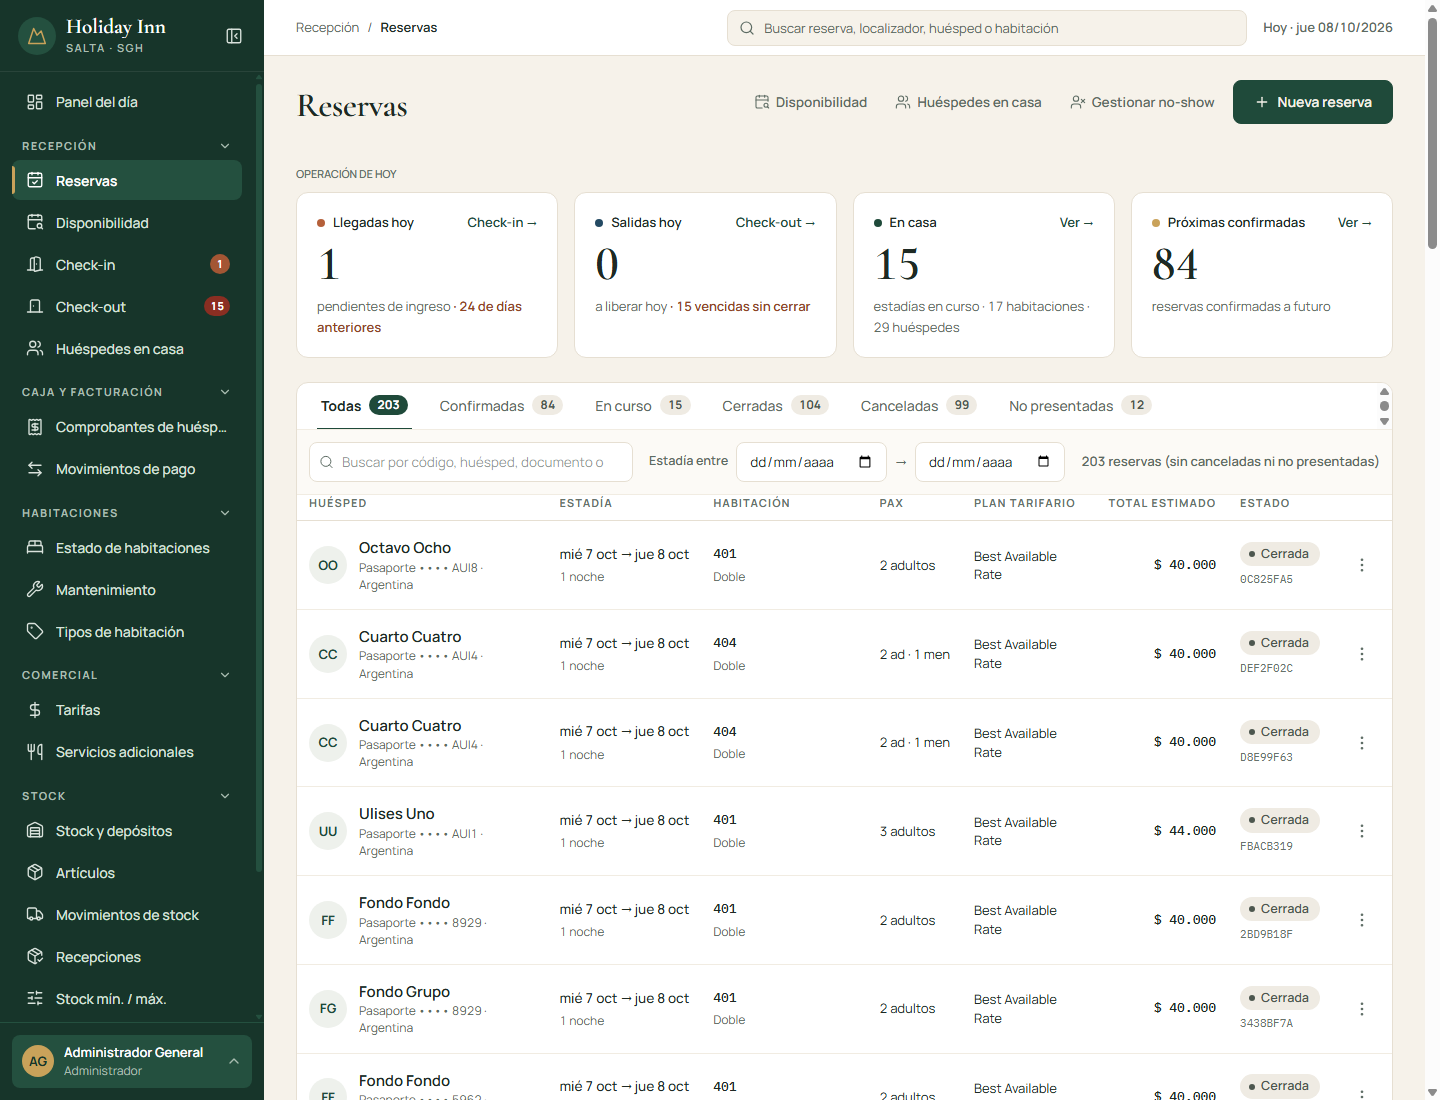
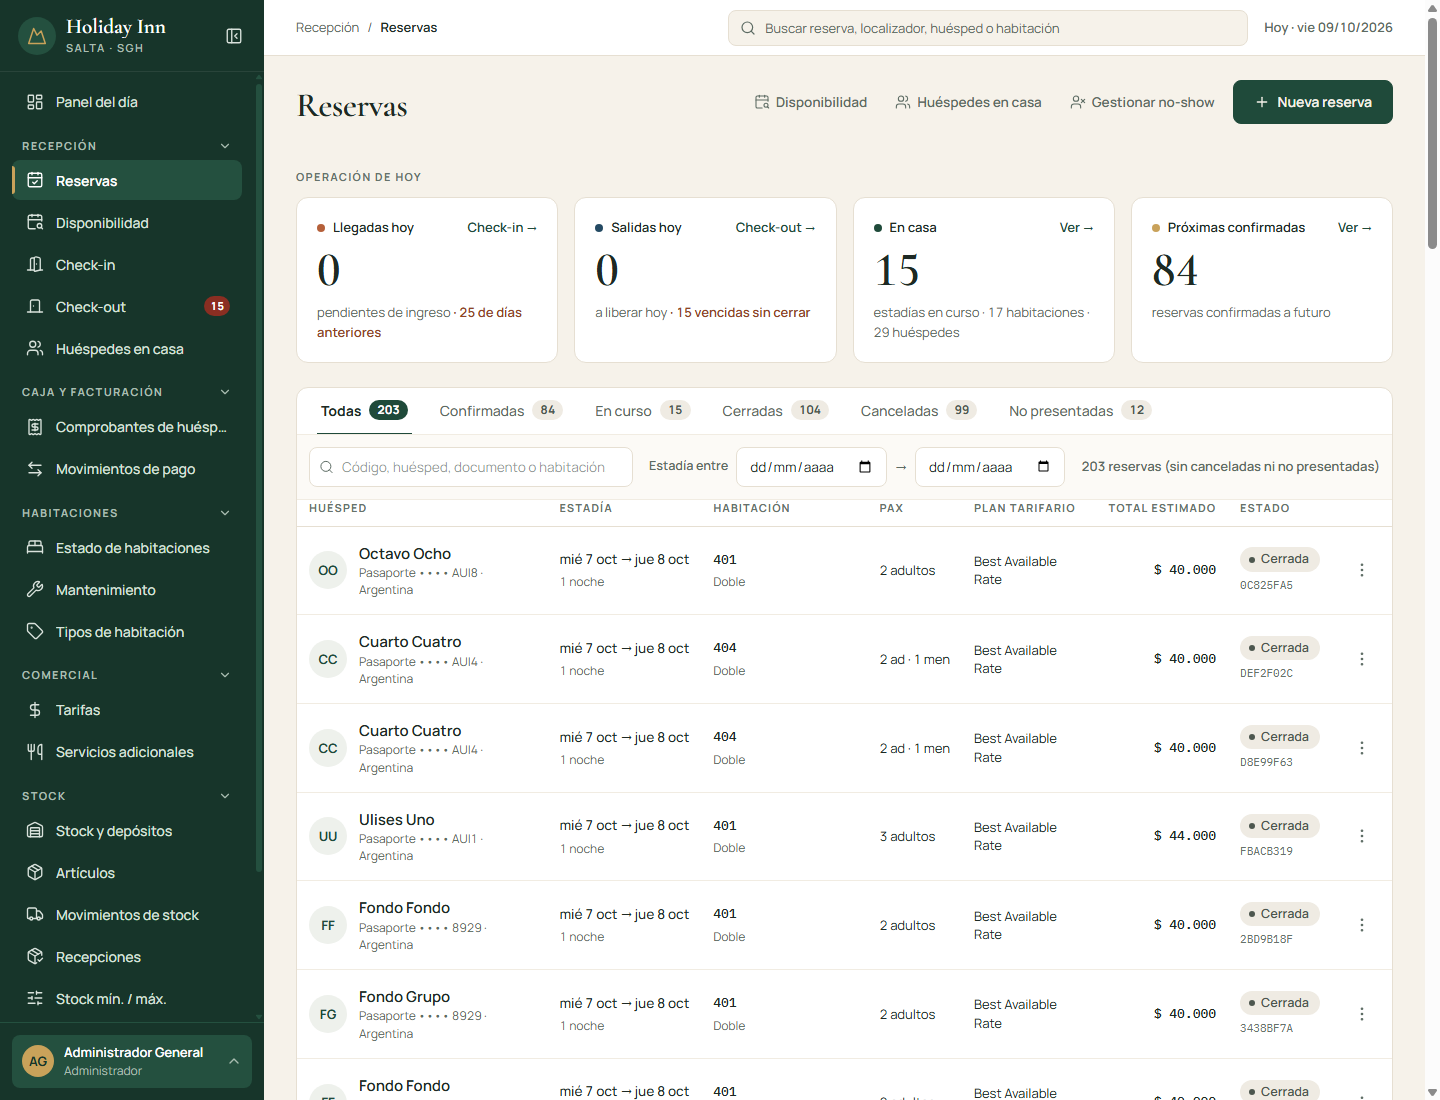
feat(ui): MenuAcciones grande opt-in, capturas de las pantallas afectadas y descripcion del PR

diff --git a/frontend/src/componentes/MenuAcciones.jsx b/frontend/src/componentes/MenuAcciones.jsx
@@ -12,8 +12,9 @@ import { MoreVertical } from "lucide-react";
 // Cada acción es { label, onClick, disabled?, variante?, separador? }: `separador` pinta una línea
 // antes de esa acción. `etiqueta` es el nombre accesible del botón (por defecto "Más acciones"; en
 // una tabla conviene decir de quién, p. ej. "Acciones de Ana Pérez"). El menú se abre hacia arriba;
-// si arriba no hay lugar, se abre hacia abajo para no quedar cortado.
-export function MenuAcciones({ acciones, etiqueta = "Más acciones" }) {
+// si arriba no hay lugar, se abre hacia abajo para no quedar cortado. `grande` (opt-in, default false) lleva el botón
+// a 36 px, el tamaño de los listados rediseñados (Reservas); sin él queda en 28 px como siempre.
+export function MenuAcciones({ acciones, etiqueta = "Más acciones", grande = false }) {
   const [abierto, setAbierto] = useState(false);
   const [posicion, setPosicion] = useState(null);
   const contenedorRef = useRef(null);
@@ -59,9 +60,9 @@ export function MenuAcciones({ acciones, etiqueta = "Más acciones" }) {
           setAbierto((v) => !v);
         }}
         aria-label={etiqueta}
-        className="flex h-9 w-9 flex-none cursor-pointer items-center justify-center rounded-md text-piedra transition-colors hover:bg-hueso hover:text-tinta"
+        className={`flex ${grande ? "h-9 w-9" : "h-7 w-7"} flex-none cursor-pointer items-center justify-center rounded-md text-piedra transition-colors hover:bg-hueso hover:text-tinta`}
       >
-        <MoreVertical size={18} strokeWidth={1.6} />
+        <MoreVertical size={grande ? 18 : 16} strokeWidth={1.6} />
       </button>
       {abierto && posicion && createPortal(
         <div

diff --git a/frontend/src/modulos/reservas/ReservasPage.jsx b/frontend/src/modulos/reservas/ReservasPage.jsx
@@ -428,7 +428,7 @@ export function ReservasPage() {
                       </td>
                       <td className="px-3 py-4 text-right">
                         <div className="flex justify-end">
-                          <MenuAcciones acciones={acciones} etiqueta={`Acciones de la reserva ${reserva.codigoConfirmacion}`} />
+                          <MenuAcciones grande acciones={acciones} etiqueta={`Acciones de la reserva ${reserva.codigoConfirmacion}`} />
                         </div>
                       </td>
                     </tr>

diff --git a/docs/PR_REDISENO_RESERVAS.md b/docs/PR_REDISENO_RESERVAS.md
@@ -1,0 +1,70 @@
+# Rediseño visual del listado de Reservas (`/reservas`) + genéricos de listado
+
+Continuación de la etapa 1 de HU-117. Es un cambio visual: **no hay historias nuevas, ni migraciones, ni cambios en `schema.prisma`**.
+Único cambio de backend: `GET /reservas?estado=` acepta varios estados separados por coma (soporte técnico de la vista).
+
+Capturas: [`docs/capturas-rediseno-reservas/`](capturas-rediseno-reservas/) (Reservas a 1440 y 390 px) y
+[`otras-pantallas/`](capturas-rediseno-reservas/otras-pantallas/) (cada pantalla afectada por los genéricos).
+
+## Qué cambia
+
+### Reservas
+- Encabezado con enlaces discretos (Disponibilidad, Huéspedes en casa, Gestionar no-show si `gestionarReservas`) y "Nueva reserva".
+- "OPERACIÓN DE HOY": 4 tarjetas (Llegadas hoy, Salidas hoy, En casa, Próximas confirmadas) sin endpoints nuevos. Salen del mismo hook que los badges del menú; si una llamada falla, la tarjeta muestra "—".
+- Pestañas por estado con contador (`?estado=`), banda de filtros ("Estadía entre … → …", Limpiar filtros, "N reservas"), tabla y paginación "Mostrando 1–50 de N".
+- **"Todas" = Confirmada + En curso + Cerrada**; con texto de búsqueda incluye todos los estados (para hallar una cancelada por código o documento; también aplica a la búsqueda del Topbar).
+- Tabla: Huésped (iniciales, documento **enmascarado** + país), Estadía (día de la semana, noches, aviso Llega hoy / Llegada atrasada / Sale hoy / Salida vencida), Habitación, Pax, Plan tarifario (etiqueta NO REEMBOLSABLE), Total estimado (es-AR), Estado (chip + código). Se quitaron la columna Código, Noches y MiniPasos (que no se modificó). Cancelada y No presentada se ven atenuadas.
+- Toda la fila lleva al detalle; el nombre es un `<Link>` real; el menú ⋮ conserva TODAS sus acciones y condiciones y no navega. La cancelación (ConfirmDialog + CierrePrevio, garantía de Ricardo) no se tocó.
+- Skeleton mientras carga y estado vacío "Sin reservas en esta vista".
+- Tras crear, modificar o cancelar una reserva se refrescan la lista y los contadores; los contadores también se refrescan al entrar a `/reservas` y cada 5 minutos.
+
+### Backend
+- `listarReservas`: `estado` admite `"Confirmada,En curso,Cerrada"`. Cada valor se valida (desconocido → 400). Un solo valor genera exactamente el mismo filtro de antes. `conteoPorEstado`, orden (`id desc`) y paginación no cambian. Test: `listarReservasPaginado.test.js`.
+
+### Enmascarado del documento (Ley 25.326)
+En el listado de Reservas solo se muestran los últimos 4 caracteres (`DNI •••• 4127`; con 4 o menos, `••••`). La búsqueda por documento completo sigue funcionando (servidor). El detalle y el resto de las pantallas muestran el documento completo. Helper: `lib/documento.js`.
+
+### Componentes genéricos (misma API; extras opcionales)
+| Componente | Cambios |
+|---|---|
+| `Table` | Estilo nuevo (encabezado 11 px/700/mayúsculas, divisor `#f1ece2`, hover). Props opcionales: `onRowClick`, `cargando` + `filasSkeleton`, `vacioTitulo` + `vacioDescripcion`, `claseFila`. |
+| `Badge` | Variantes de siempre sin cambios. Opcionales: `tono` (confirmada, en-curso, cerrada, cancelada, no-presentada → chip con punto) y `punto`. El gris "cancelada" solo se usa en Reservas. |
+| `FilterBar` | Banda `#fcfaf6`. Opcionales: `incrustada` (para ir dentro de una tarjeta), `ocultarLimpiar`. |
+| `MenuAcciones` | Trazo 1.6. Opcional `grande` (36 px); por defecto sigue en 28 px. |
+| `Pestanas` (nuevo) | `role="tablist"`, flechas/Inicio/Fin, contador en píldora. |
+| `TarjetaIndicador` (nuevo) | Tarjeta de indicador del día. |
+| `Paginacion` (nuevo) | "Mostrando a–b de N" + `‹ 1 2 … última ›`. `Pagination` (viejo) sigue disponible. |
+
+Los estilos de tabla (`.tabla-sgh`, chips, avisos) están en `estilos/shell.css` dentro de **`@layer components`**: las utilidades de Tailwind que cada pantalla pone en sus `td`/`tr` siguen ganando (verificado en Órdenes de Compra —importes alineados a la derecha— y Usuarios). Colores nuevos en `estilos/variables.css`.
+
+### Hook `useContadoresRecepcion`
+Además de `llegadas`, `salidas` y `vencidas` (lo que usa el menú, sin cambios: mismo número y mismo tono), expone `llegadasHoy`, `llegadasAnteriores`, `salidasHoy`, `salidasVencidas` y `enCasa` (habitaciones y huéspedes). Opción `puedeVerReservas` para que el gerente (que ve Reservas pero no Check-out) también obtenga la lista de En curso.
+
+## Decisiones a revisar
+- **Contraste:** el gris `#7a857e` del mockup da 3.8:1 sobre blanco en texto de 11 px. Se usó `#66726b` (5:1) para encabezados y códigos (`--text-3`), para cumplir 4.5:1.
+- El sobretítulo "OPERACIÓN DE HOY" es un `<p>` y no un `<h2>`: la regla global `h1…h6` de `index.css` (sin capa) le pisaría el peso y el espaciado.
+- `fechaDesde`/`fechaHasta` se comparan como texto `YYYY-MM-DD` y se formatean en UTC; "hoy" es `hoyEnHoraLocal()` (hora argentina). Hay test con `2026-10-08T00:00:00.000Z` → "jue 8 oct" y "Llega hoy" con reloj simulado.
+
+## Pantallas afectadas por los genéricos (regla 15)
+No se editó ningún archivo de esas pantallas. Se recorrieron con el sistema levantado (roles admin, gerente y compras), sin scroll horizontal de página y sin errores de consola.
+
+**Cambios a la vista en todas las tablas:** encabezados más chicos y más espaciados, en gris más oscuro que antes, divisor de fila entre filas (`#f1ece2`) y leve tinte al pasar el mouse; trazo más fino en el ícono ⋮; `FilterBar` con fondo `#fcfaf6`.
+
+Pantallas con `Table`: Panel del día, Historial de mantenimiento, Habitación (detalle), Check-in, Check-out y Check-out de la reserva, Órdenes de compra (lista y detalle), Pagos, Presupuestos (lista y detalle), Requerimientos (lista y detalle), Proveedores (lista y detalle), Stock, Stock mín./máx., Artículos, Depósito (detalle), Movimientos, Tipos de movimiento, Usuarios, Cuenta corriente, Comprobantes de proveedores, Comprobantes de huésped (lista y detalle), Movimientos de pago, Reporte de caja diaria, Tipos de habitación, Tarifas (precios, temporadas, planes, actualizaciones), Llegadas no presentadas, Detalle de reserva y los modales/wizards que muestran tablas.
+
+Pantallas con `FilterBar`: Check-out, Comprobantes de huésped, Cuenta corriente, Habitaciones, Movimientos de pago, Pagos, Stock, Usuarios.
+
+Pantallas con `Badge`: las anteriores más Alertas, Kardex, Recepciones y los dashboards (sin cambios visibles: las variantes se conservaron).
+
+**Algo roto:** no se encontró nada roto funcionalmente. Se detectó y corrigió una regresión propia: un ⋮ de 36 px partía en dos líneas el estado ("EN LIMPIEZA") en las tarjetas de Habitaciones; por eso el 36 px es opt-in (`grande`).
+
+**Sin baseline `antes`:** las capturas son del estado nuevo; las diferencias de arriba se describen por lo que cambió en el código de los genéricos.
+
+## Pendiente de migrar al nuevo estilo (etapa 3)
+Usar `Pestanas`, `TarjetaIndicador`, `Paginacion` y las props nuevas de `Table`/`FilterBar`/`Badge`/`MenuAcciones` en: Check-out, Comprobantes de huésped, Movimientos de pago, Huéspedes en casa, Llegadas no presentadas, Habitaciones, Órdenes de compra, Pagos, Presupuestos, Requerimientos, Proveedores, Stock y Usuarios. `Pagination` (viejo) se puede retirar cuando ninguna lo use.
+
+## Verificación
+- Backend: `npx jest src/modulos/reservas` → 9 suites, 64 tests.
+- Frontend: `npm run build` sin errores; `vitest` → 74 archivos, 744 tests; `oxlint` sin hallazgos en archivos tocados (hay 3 errores `rules-of-hooks` previos en `TemporadasPage.jsx` y `ActualizacionesPage.jsx`, que no se tocaron).
+- Recorrido manual (local, `sgh_gimena` vía backend de prueba en 3001): CA1 (203 = 84 + 15 + 104), CA2, CA3 (`En curso` → 15 como antes; `Confirmada,Cerrada` → 188; `Foo` y `Confirmada,Foo` → 400), CA5 (Llegada atrasada, Salida vencida), CA6, CA7 (4 habitaciones, `4 × Doble`, 10 adultos), CA8, CA10, CA11 (390/390 px; la tabla scrollea dentro de su tarjeta: 983 > 356).
+- No se verificó con datos reales: "Llega hoy" ni "Sale hoy" (hoy no hay reservas con esa fecha; cubiertos por test con reloj simulado) ni la confirmación de una cancelación (se abrió el diálogo, no se confirmó para no modificar datos; el flujo no cambió).
